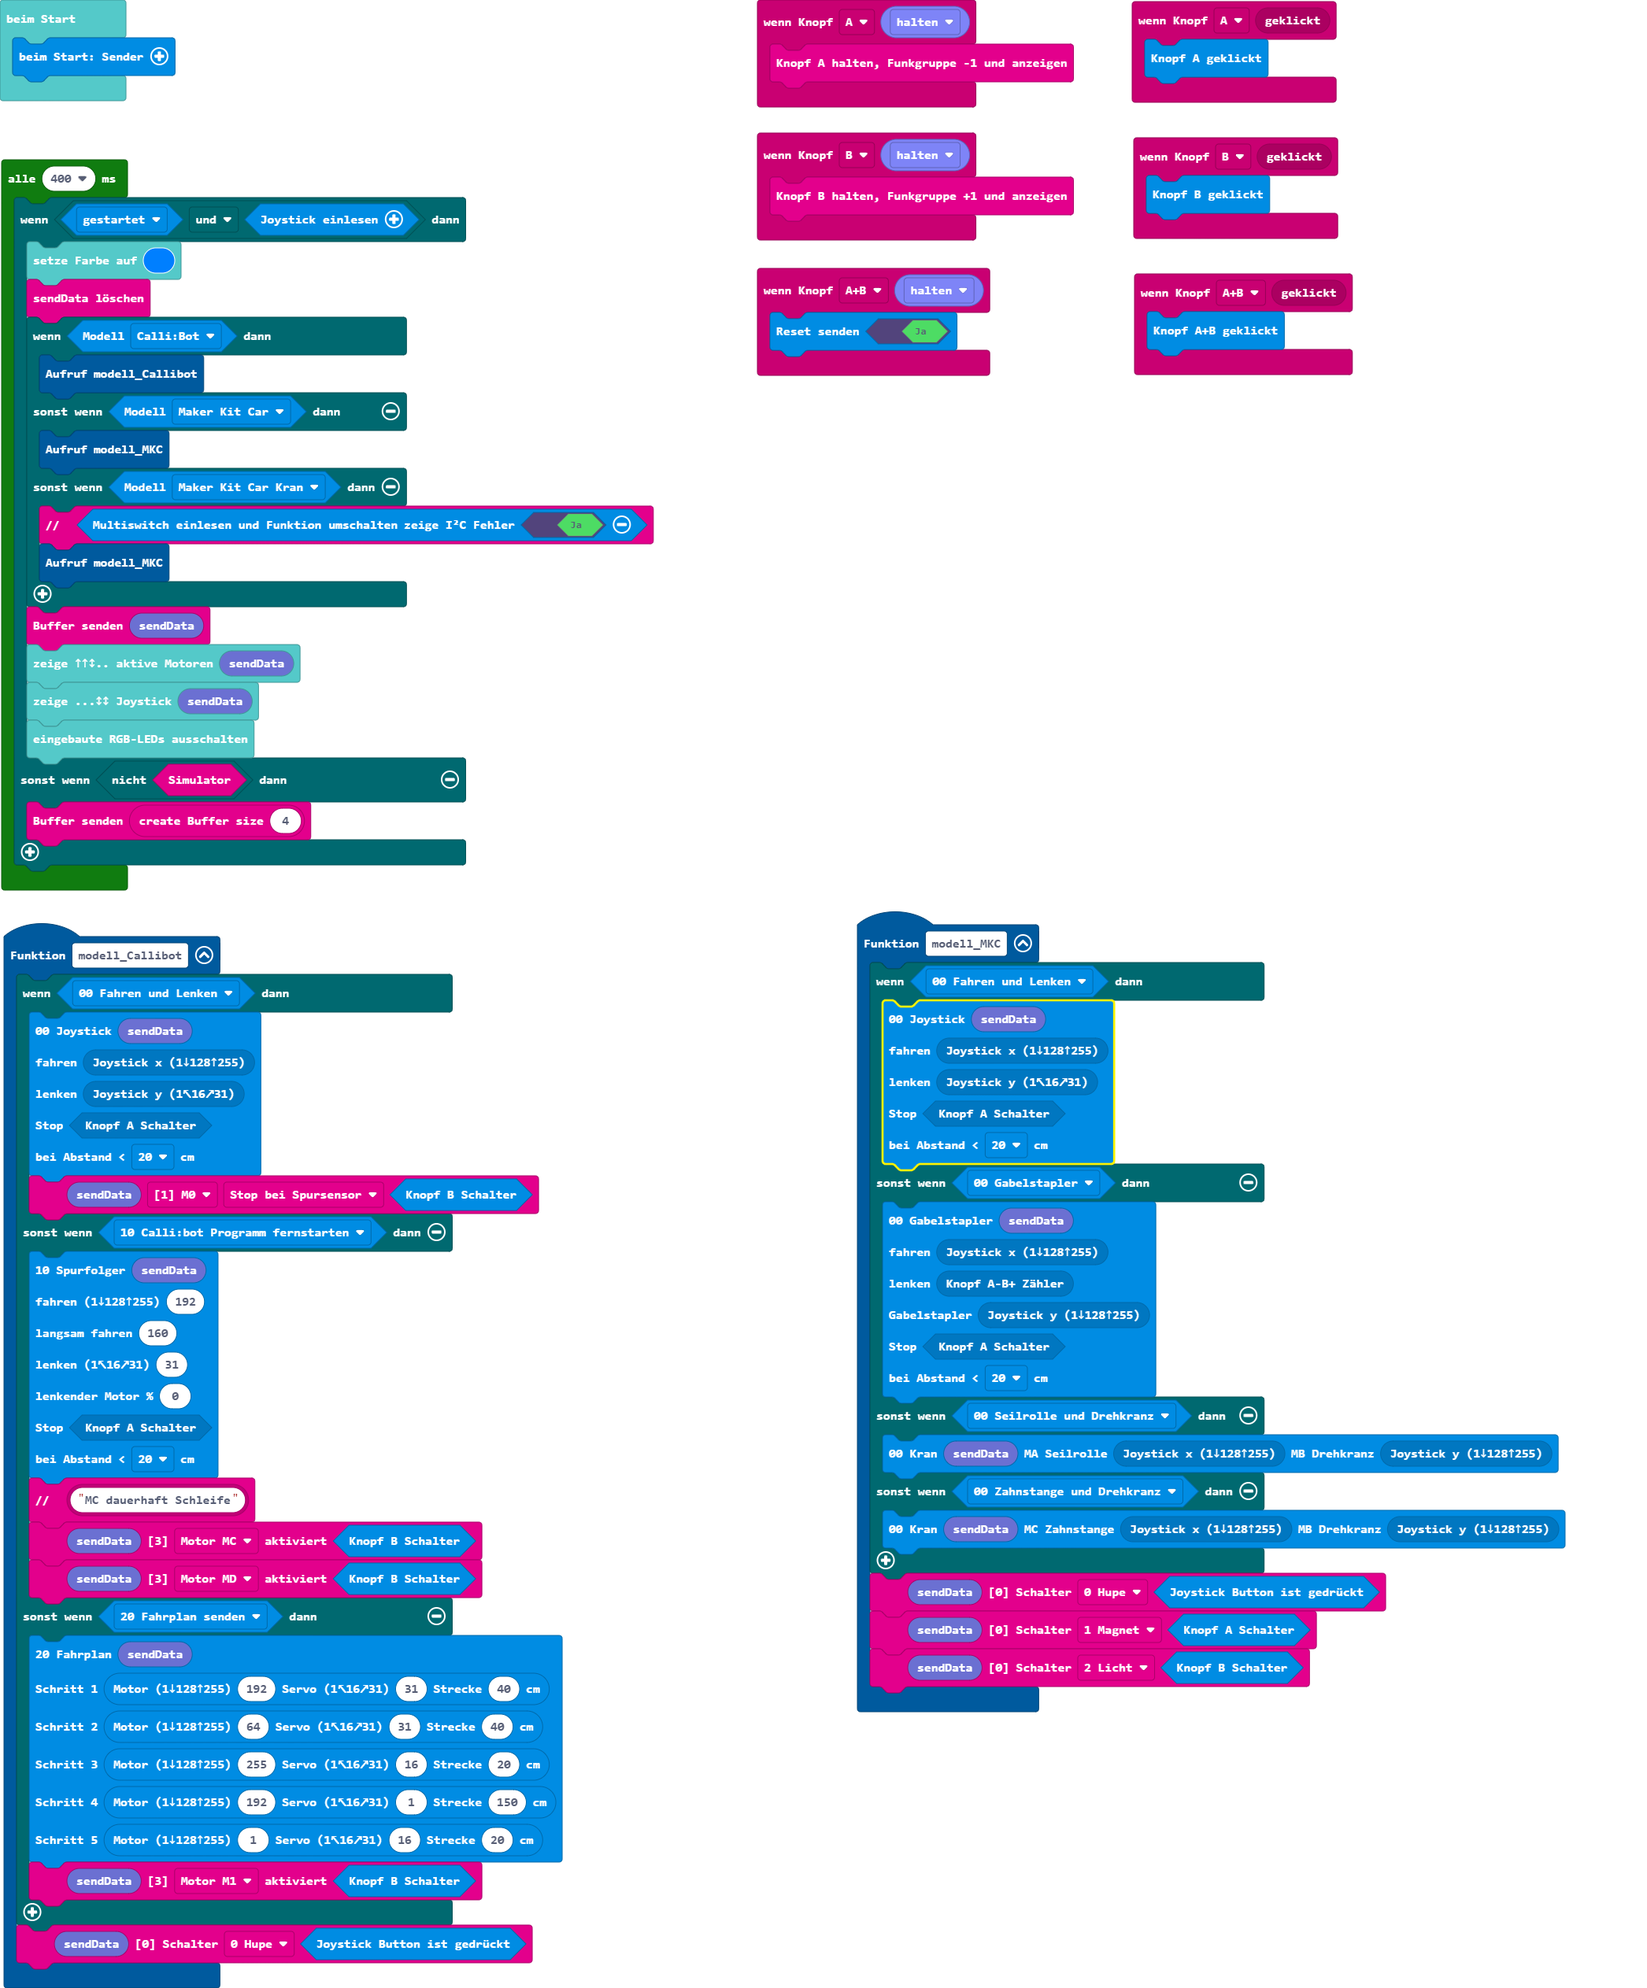
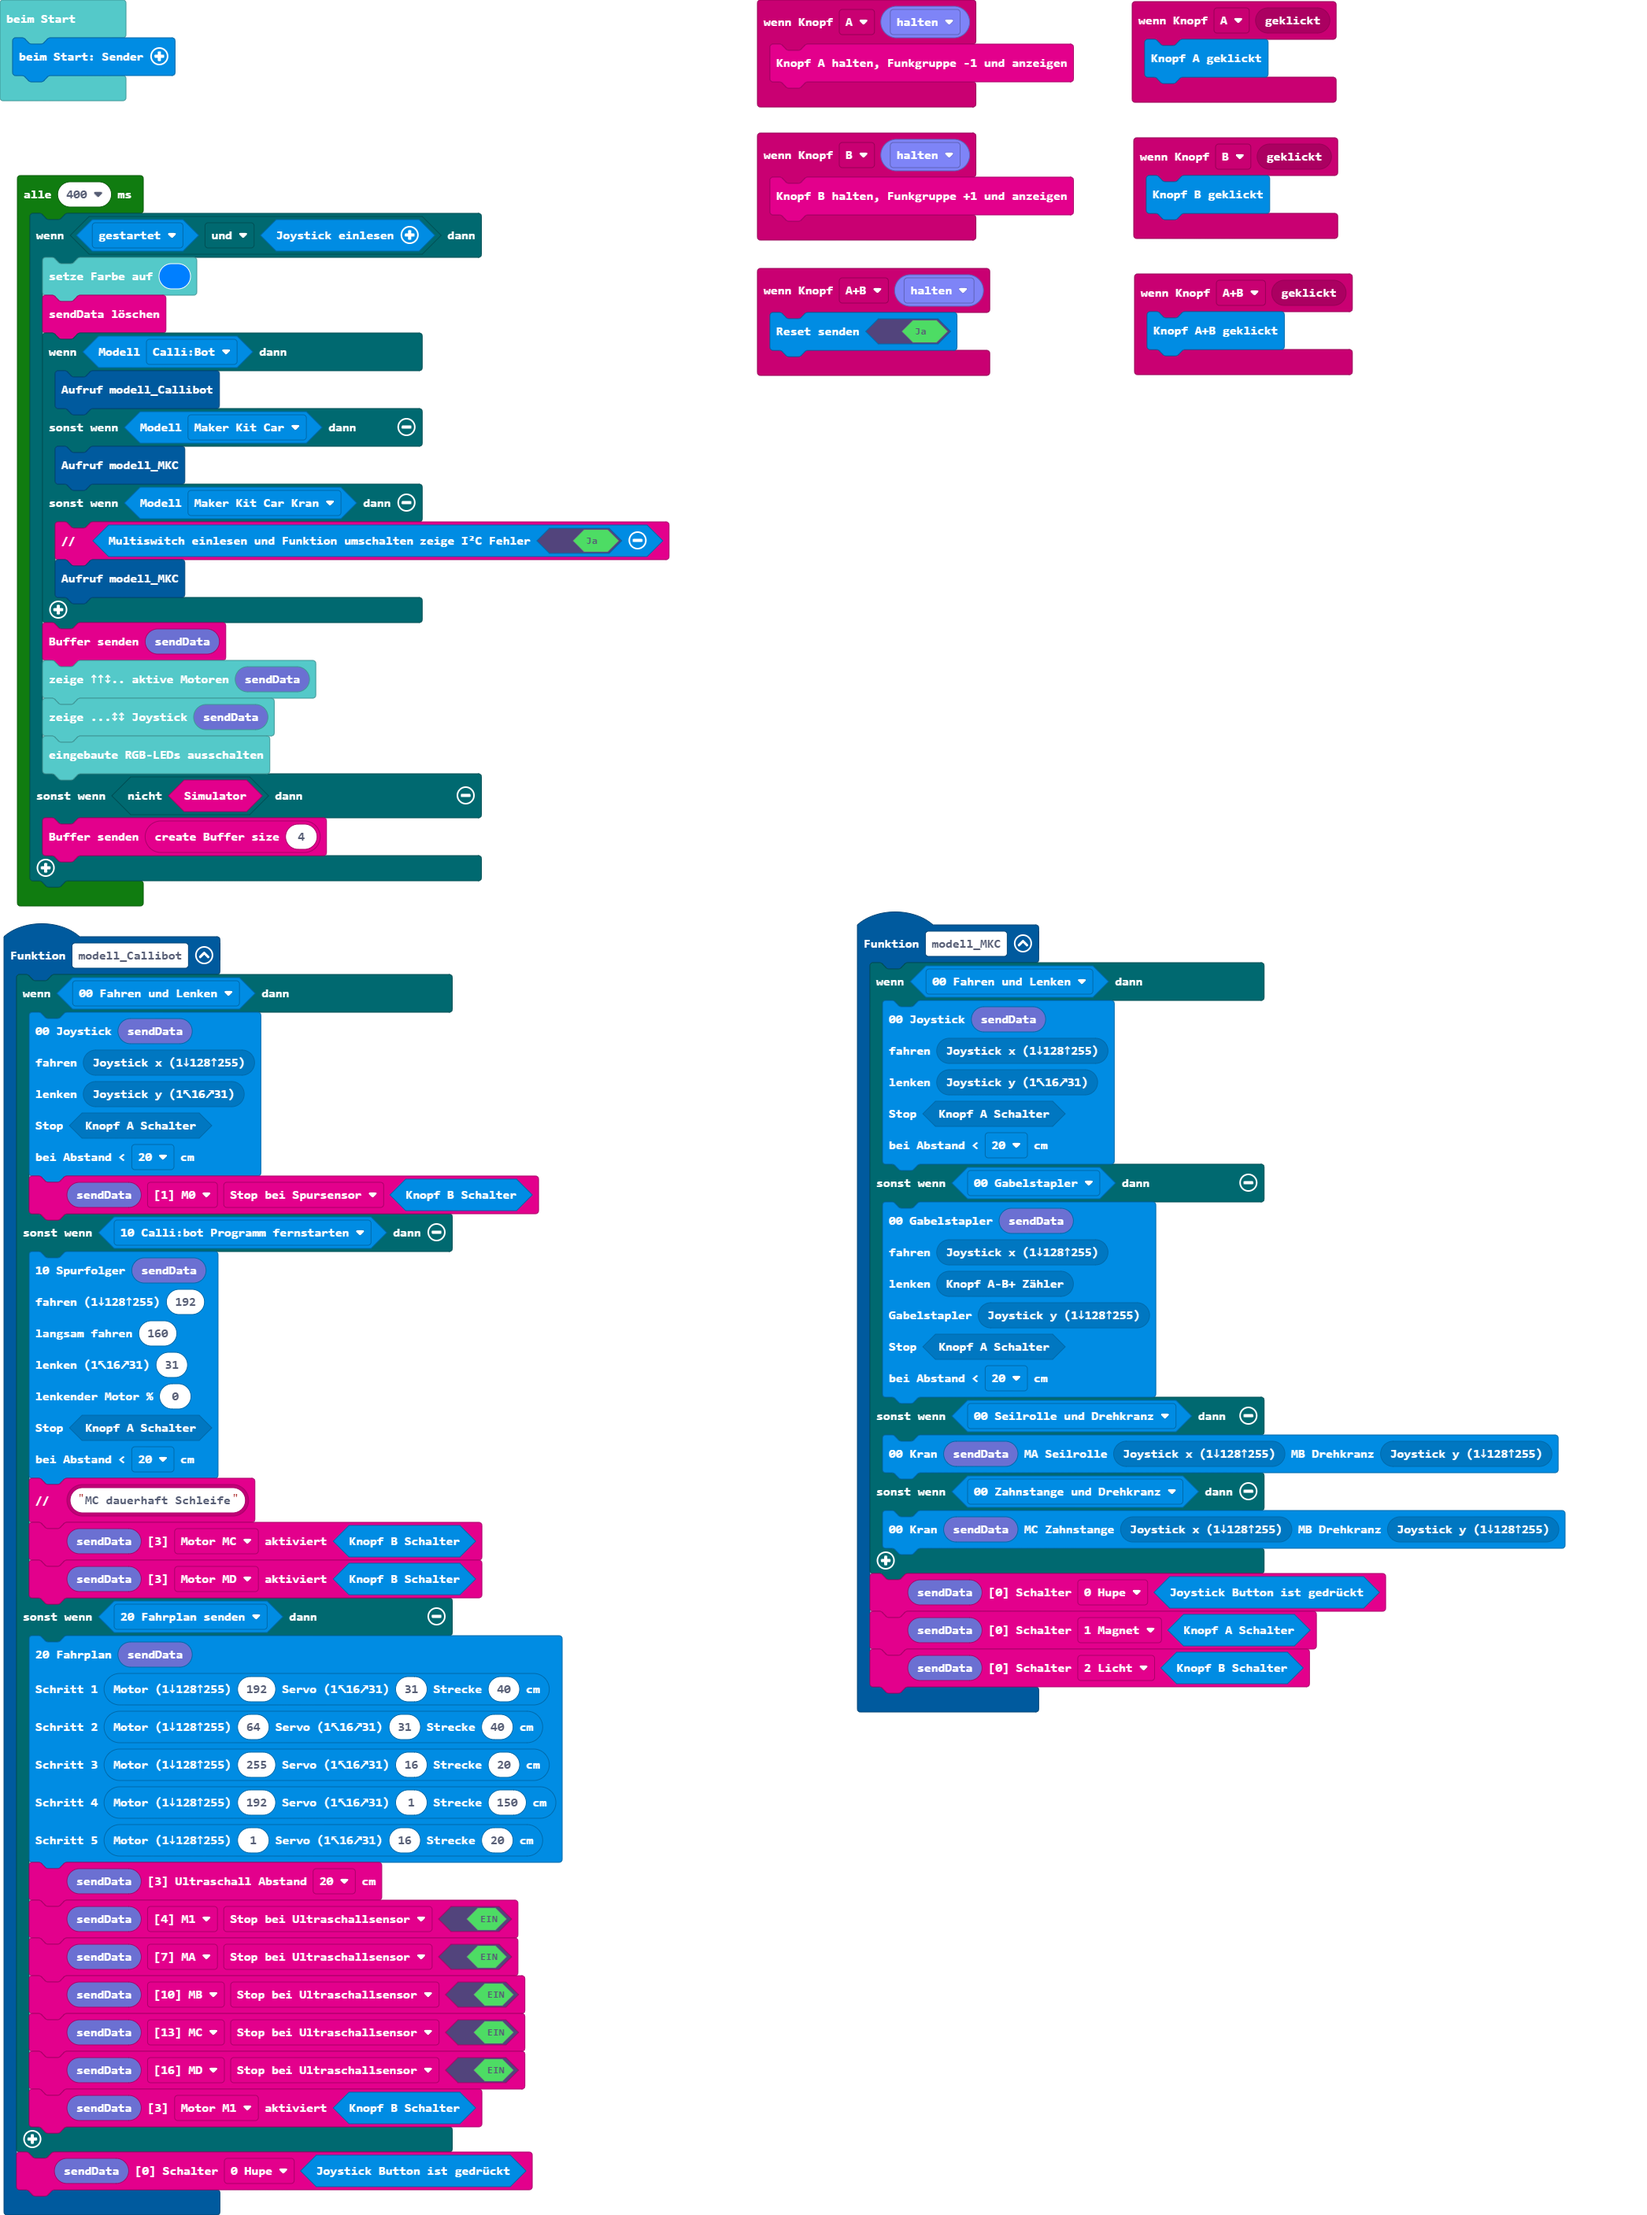
Aktualisiere pxt.json, main.blocks, main.ts

diff --git a/main.ts b/main.ts
@@ -30,6 +30,12 @@ function modell_Callibot () {
         sender.sender_programmSchritt(192, 1, 150),
         sender.sender_programmSchritt(1, 16, 20)
         )
+        btf.setAbstand(btf.btf_sendBuffer19(), btf.e3Abstand.u2)
+        btf.setSensor(btf.btf_sendBuffer19(), btf.eBufferPointer.m1, btf.eSensor.b6Abstand, true)
+        btf.setSensor(btf.btf_sendBuffer19(), btf.eBufferPointer.ma, btf.eSensor.b6Abstand, true)
+        btf.setSensor(btf.btf_sendBuffer19(), btf.eBufferPointer.mb, btf.eSensor.b6Abstand, true)
+        btf.setSensor(btf.btf_sendBuffer19(), btf.eBufferPointer.mc, btf.eSensor.b6Abstand, true)
+        btf.setSensor(btf.btf_sendBuffer19(), btf.eBufferPointer.md, btf.eSensor.b6Abstand, true)
         btf.setaktiviert(btf.btf_sendBuffer19(), btf.e3aktiviert.m1, sender.sender_ButtonB_Switch())
     }
     btf.setSchalter(btf.btf_sendBuffer19(), btf.e0Schalter.b0, sender.joystickButtonPosition())
